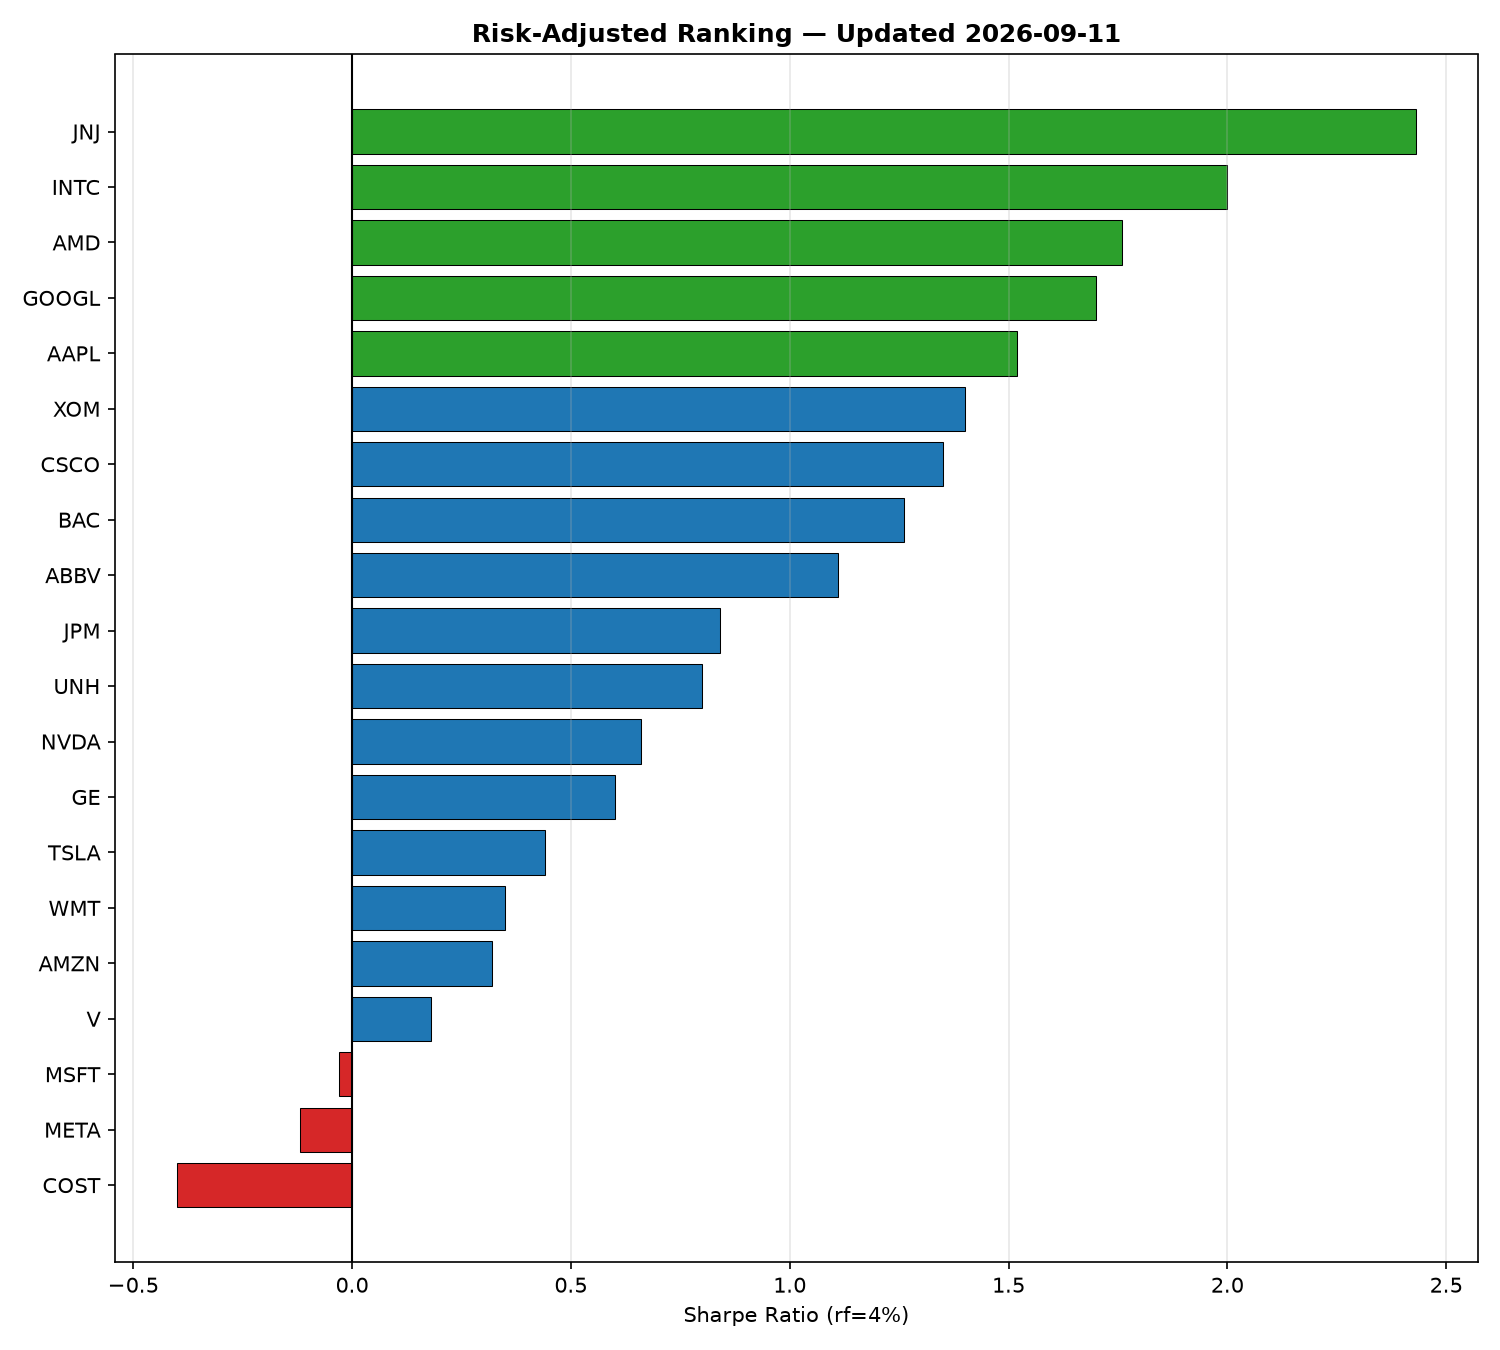
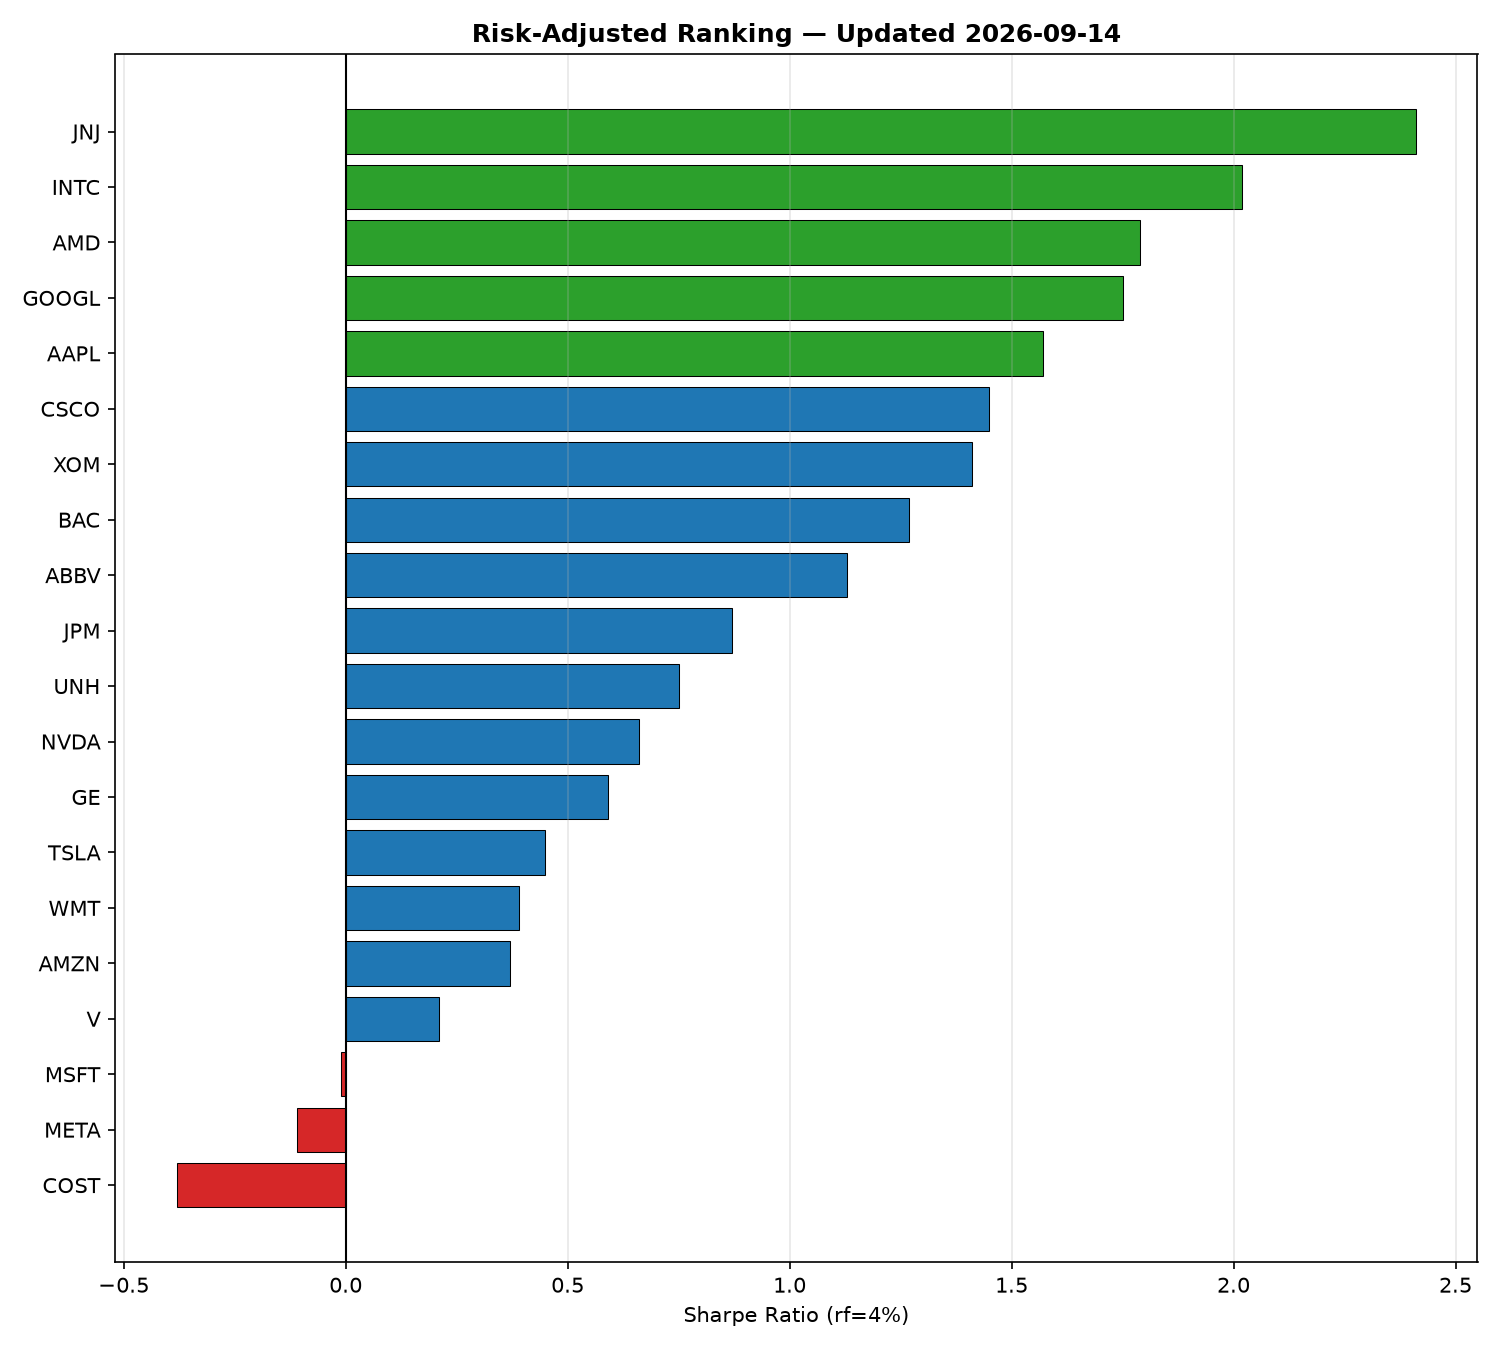
Automated daily update: prices, metrics, and charts

diff --git a/SNAPSHOT.md b/SNAPSHOT.md
@@ -1,9 +1,9 @@
-# Daily Risk Snapshot — 2026-09-10
+# Daily Risk Snapshot — 2026-09-11
 
-**Best mover:** AAPL (+3.56%)
-**Worst mover:** INTC (-5.57%)
-**Top risk-adjusted performer (trailing window):** JNJ (Sharpe 2.43)
+**Best mover:** CSCO (+4.37%)
+**Worst mover:** UNH (-2.37%)
+**Top risk-adjusted performer (trailing window):** JNJ (Sharpe 2.41)
 
-**⚠ Newly anomalous today:** AAPL — return moved more than 2 std. deviations from its own 20-day trailing mean.
+**⚠ Newly anomalous today:** CSCO — return moved more than 2 std. deviations from its own 20-day trailing mean.
 
 _Auto-generated by `scripts/daily_snapshot.py` via GitHub Actions._
